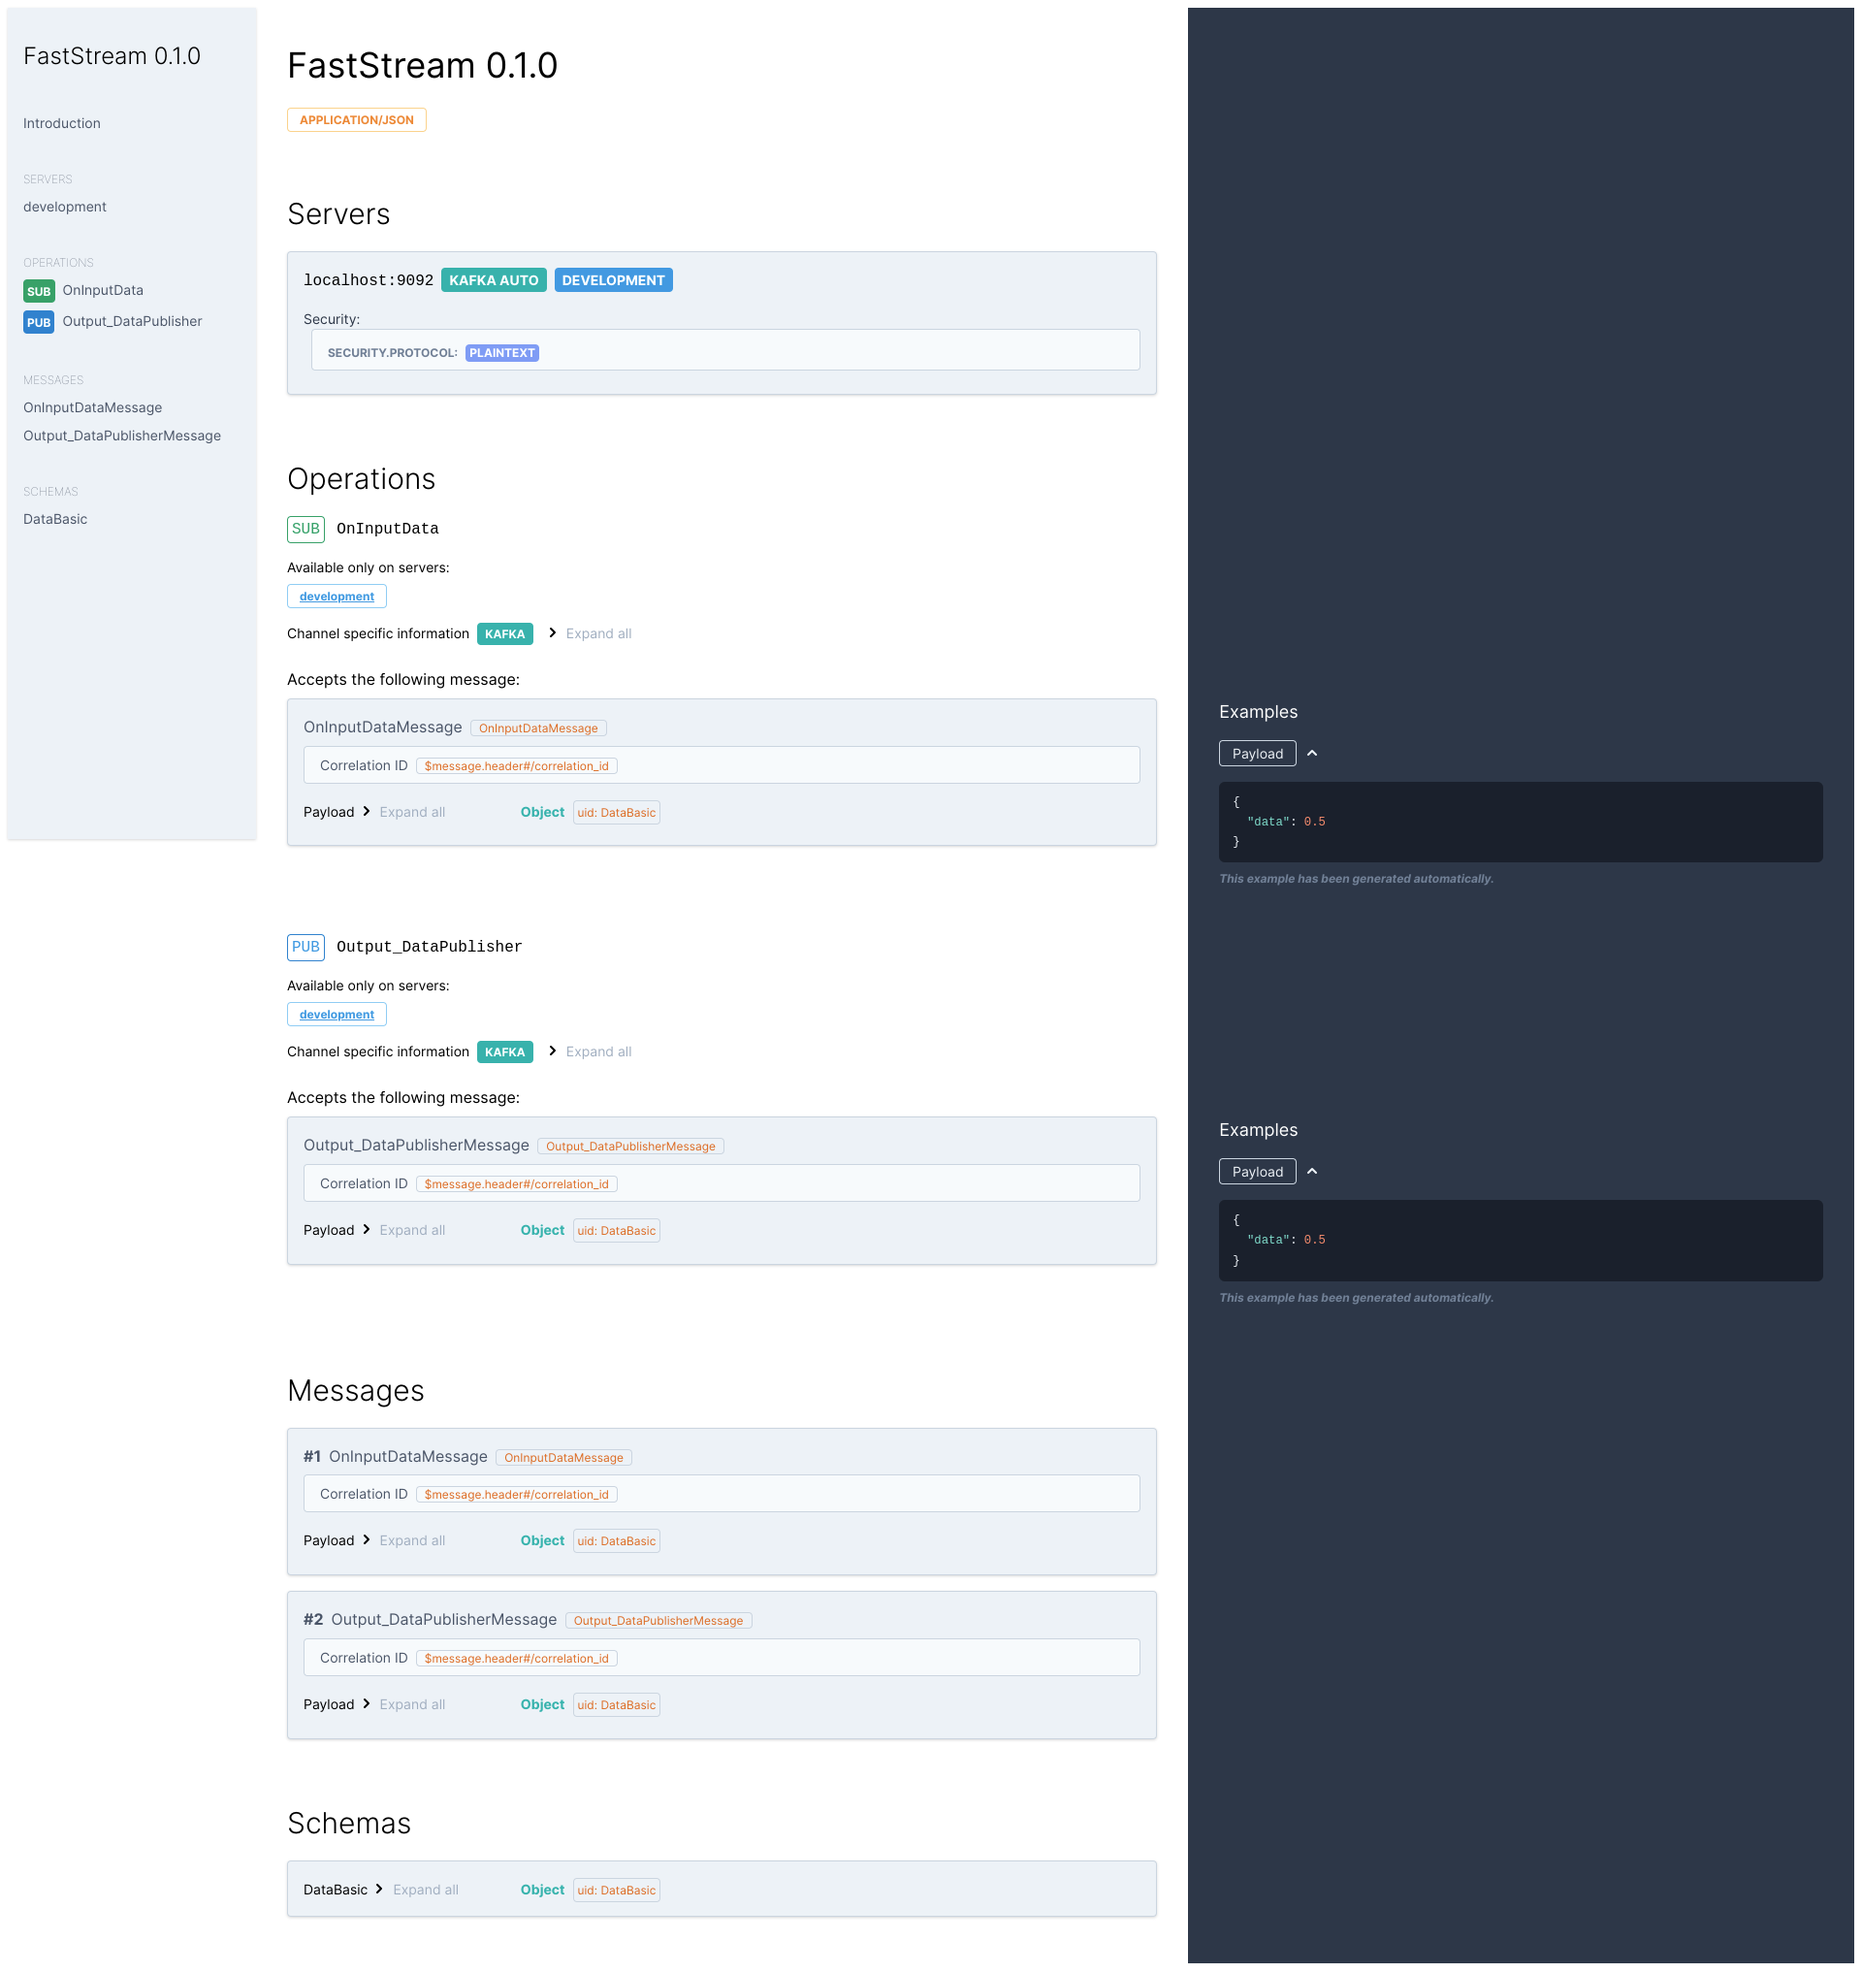
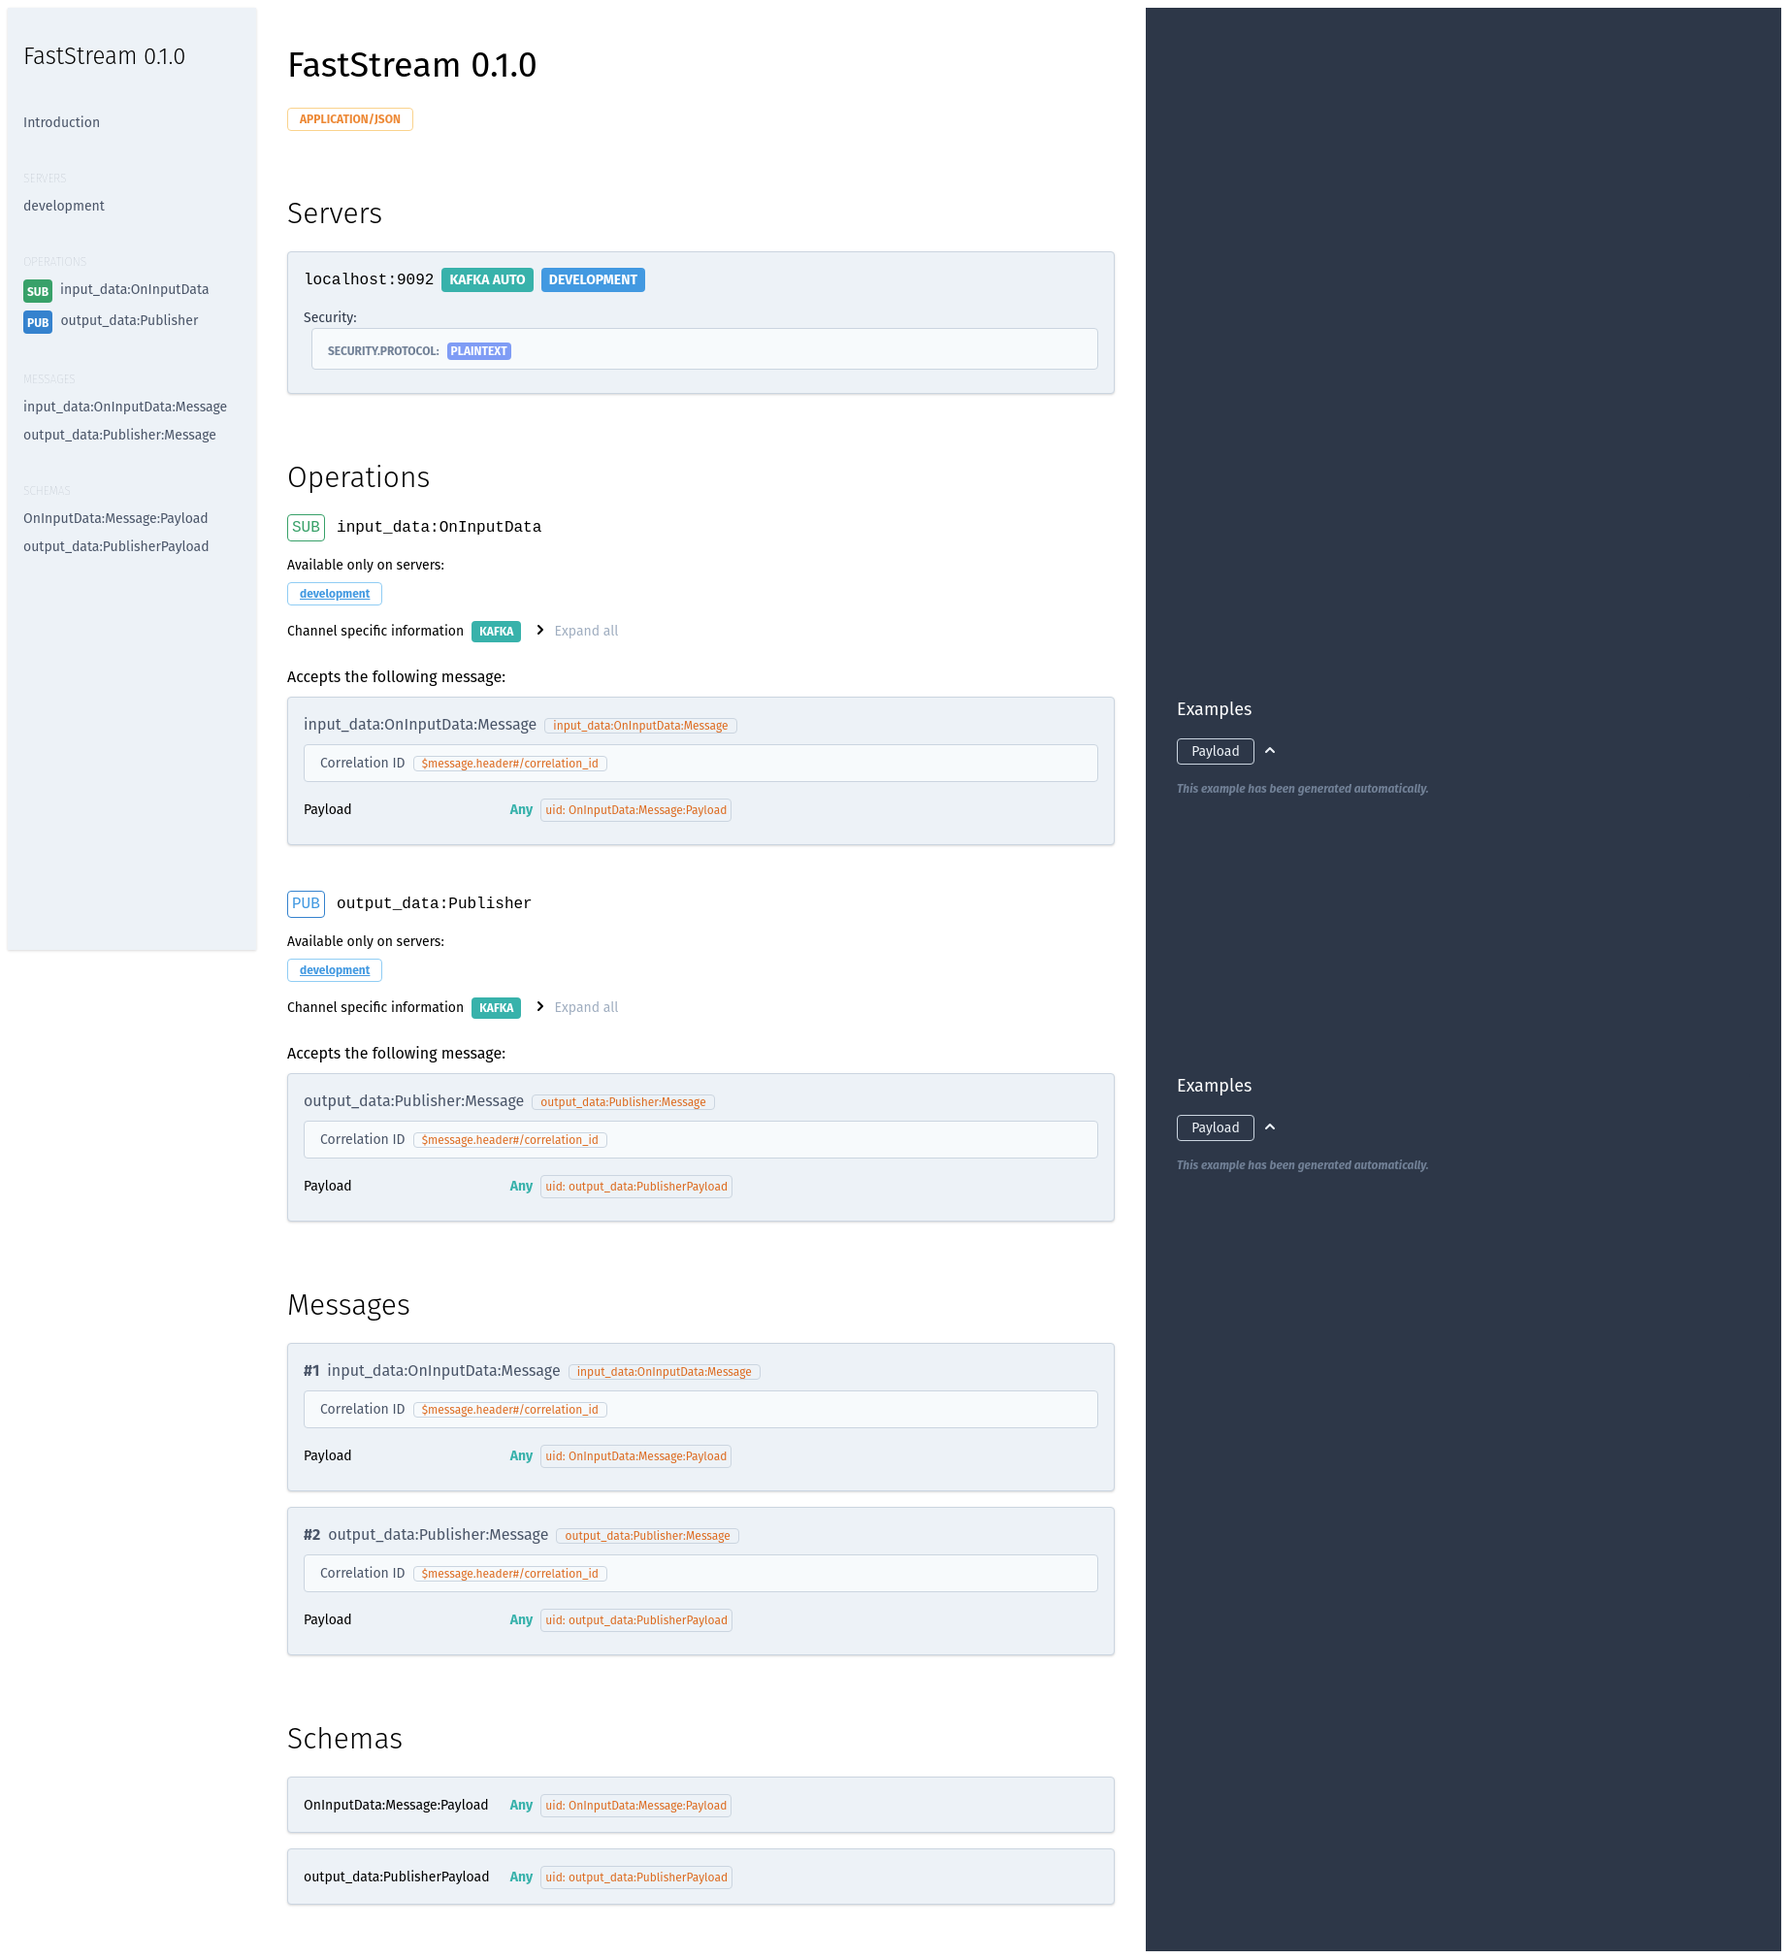
Update docs to add  how to customize asyncapi docs (#999)
* WIP

* Add description using Markdown text

* Add example for 'title='

* Add example for 'schema='

* Update AsynAPI customization info

* Update test cases for asyncapi customization

diff --git a/tests/docs/getting_started/asyncapi/asyncapi_customization/test_handler.py b/tests/docs/getting_started/asyncapi/asyncapi_customization/test_handler.py
@@ -8,24 +8,20 @@ def test_handler_customization():
     schema = get_app_schema(app).to_jsonable()
 
     assert schema["channels"] == {
-        "input_data:OnInputData": {
-            "bindings": {"kafka": {"bindingVersion": "0.4.0", "topic": "input_data"}},
-            "description": "My subscriber " "description",
+        "input_data:Consume": {
+            "description": "Consumer function\n\n    Args:\n        msg: input msg\n    ",
             "servers": ["development"],
+            "bindings": {"kafka": {"topic": "input_data", "bindingVersion": "0.4.0"}},
             "subscribe": {
-                "message": {
-                    "$ref": "#/components/messages/input_data:OnInputData:Message"
-                }
+                "message": {"$ref": "#/components/messages/input_data:Consume:Message"}
             },
         },
-        "output_data:Publisher": {
-            "bindings": {"kafka": {"bindingVersion": "0.4.0", "topic": "output_data"}},
-            "description": "My publisher " "description",
-            "publish": {
-                "message": {
-                    "$ref": "#/components/messages/output_data:Publisher:Message"
-                }
-            },
+        "output_data:Produce": {
+            "description": "My publisher description",
             "servers": ["development"],
+            "bindings": {"kafka": {"topic": "output_data", "bindingVersion": "0.4.0"}},
+            "publish": {
+                "message": {"$ref": "#/components/messages/output_data:Produce:Message"}
+            },
         },
     }

diff --git a/docs/docs_src/getting_started/asyncapi/asyncapi_customization/custom_handler.py b/docs/docs_src/getting_started/asyncapi/asyncapi_customization/custom_handler.py
@@ -1,11 +1,33 @@
+from pydantic import BaseModel, Field, NonNegativeFloat
+
 from faststream import FastStream
 from faststream.kafka import KafkaBroker, KafkaMessage
+
+
+class DataBasic(BaseModel):
+    data: NonNegativeFloat = Field(
+        ..., examples=[0.5], description="Float data example"
+    )
+
 
 broker = KafkaBroker("localhost:9092")
 app = FastStream(broker)
 
-@broker.publisher("output_data", description="My publisher description")
-@broker.subscriber("input_data", description="My subscriber description")
+
+@broker.publisher(
+    "output_data",
+    description="My publisher description",
+    title="output_data:Produce",
+    schema=DataBasic,
+)
+@broker.subscriber(
+    "input_data", title="input_data:Consume"
+)
 async def on_input_data(msg):
+    """Consumer function
+
+    Args:
+        msg: input msg
+    """
     # your processing logic
     pass

diff --git a/docs/docs_src/getting_started/asyncapi/asyncapi_customization/custom_info.py b/docs/docs_src/getting_started/asyncapi/asyncapi_customization/custom_info.py
@@ -3,10 +3,12 @@ from faststream.kafka import KafkaBroker, KafkaMessage
 from faststream.asyncapi.schema import Contact, ExternalDocs, License, Tag
 
 broker = KafkaBroker("localhost:9092")
+description="""# Title of the description
+This description supports **Markdown** syntax"""
 app = FastStream(broker,
             title="My App",
             version="1.0.0",
-            description="Test description",
+            description=description,
             license=License(name="MIT", url="https://opensource.org/license/mit/"),
             terms_of_service="https://my-terms.com/",
             contact=Contact(name="support", url="https://help.com/"),

diff --git a/tests/docs/getting_started/asyncapi/asyncapi_customization/test_info.py b/tests/docs/getting_started/asyncapi/asyncapi_customization/test_info.py
@@ -10,7 +10,7 @@ def test_info_customization():
     assert schema["info"] == {
         "title": "My App",
         "version": "1.0.0",
-        "description": "Test description",
+        "description": "# Title of the description\nThis description supports **Markdown** syntax",
         "termsOfService": "https://my-terms.com/",
         "contact": {"name": "support", "url": "https://help.com/"},
         "license": {"name": "MIT", "url": "https://opensource.org/license/mit/"},

diff --git a/docs/docs_src/getting_started/asyncapi/asyncapi_customization/custom_broker.py b/docs/docs_src/getting_started/asyncapi/asyncapi_customization/custom_broker.py
@@ -2,8 +2,13 @@ from faststream import FastStream
 from faststream.kafka import KafkaBroker, KafkaMessage
 from faststream.asyncapi.schema import Tag
 
-broker = KafkaBroker("localhost:9092", description="Kafka broker running locally")
+broker = KafkaBroker(
+    "localhost:9092",
+    description="Kafka broker running locally",
+    asyncapi_url="non-sensitive-url:9092",
+)
 app = FastStream(broker)
+
 
 @broker.publisher("output_data")
 @broker.subscriber("input_data")

diff --git a/tests/docs/getting_started/asyncapi/asyncapi_customization/test_broker.py b/tests/docs/getting_started/asyncapi/asyncapi_customization/test_broker.py
@@ -9,7 +9,7 @@ def test_broker_customization():
 
     assert schema["servers"] == {
         "development": {
-            "url": "localhost:9092",
+            "url": "non-sensitive-url:9092",
             "protocol": "kafka",
             "description": "Kafka broker running locally",
             "protocolVersion": "auto",

diff --git a/docs/docs/en/getting-started/asyncapi/custom.md b/docs/docs/en/getting-started/asyncapi/custom.md
@@ -27,7 +27,7 @@ Let's start by customizing the app information that appears in your AsyncAPI doc
 
 Copy the following code in your basic.py file, we have highligted the additional info passed to FastStream app:
 
-```python linenums="1" hl_lines="7-12"
+```python linenums="1" hl_lines="6-15"
     {!> docs_src/getting_started/asyncapi/asyncapi_customization/custom_info.py !}
 ```
 
@@ -37,18 +37,22 @@ Now, when you run ```{!> docs_src/getting_started/asyncapi/serve.py [ln:17] !}``
 
 Now, your documentation reflects your application's identity and purpose.
 
+!!! note
+    The ```description``` field in the above example supports ```Markdown``` text.
+
 ## Setup Custom Broker Information
 
 The next step is to customize broker information. This helps users understand the messaging system your application uses. Follow these steps:
 
 1. Locate the broker configuration in your FastStream application.
 1. Update the `description` field.
+1. Update the `asyncapi_url` field with a non-sensitive URL if you want to conceal your broker's actual bootstrap server URL.
 1. Save the changes.
 1. Serve your FastStream app.
 
 Copy the following code in your basic.py file, we have highligted the additional info passed to the FastStream app broker:
 
-```python linenums="1" hl_lines="5"
+```python linenums="1" hl_lines="5-9"
     {!> docs_src/getting_started/asyncapi/asyncapi_customization/custom_broker.py !}
 ```
 
@@ -64,12 +68,15 @@ Customizing handler information helps users comprehend the purpose and behavior 
 
 1. Navigate to your handler definitions in your FastStream application.
 1. Add descriptions to each handler using `description` field.
+1. For subscriber, consumer function's docstring can be used as `description`.
+1. Add titles to each handler using `title` field adhering to [URI format](https://datatracker.ietf.org/doc/html/rfc3986).
+1. Add publishing schema to publisher handler using `schema` field.
 1. Save the changes.
 1. Serve your FastStream app.
 
 Copy the following code in your basic.py file, we have highligted the additional info passed to the FastStream app handlers:
 
-```python linenums="1" hl_lines="7-8"
+```python linenums="1" hl_lines="17-25 27-31"
     {!> docs_src/getting_started/asyncapi/asyncapi_customization/custom_handler.py !}
 ```
 
@@ -91,7 +98,7 @@ To describe your message payload effectively, you can use Pydantic models. Here'
 
 Copy the following code in your basic.py file, we have highligted the creation of payload info and you can see it being passed to the return type and the `msg` argument type in the `on_input_data` function:
 
-```python linenums="1" hl_lines="5"
+```python linenums="1" hl_lines="7-10 19"
     {!> docs_src/getting_started/asyncapi/asyncapi_customization/payload_info.py !}
 ```
 

diff --git a/docs/docs/en/getting-started/asyncapi/hosting.md b/docs/docs/en/getting-started/asyncapi/hosting.md
@@ -41,3 +41,24 @@ And you should be able to see the following page in your browser:
 
 !!! tip
     The command also offers options to serve the documentation on a different host and port.
+
+## Customizing AsyncAPI Documentation
+
+FastStream also provides query parameters to show and hide specific sections of AsyncAPI documentation.
+
+You can use the following parameters control the visibility of relevant sections:
+
+1. `sidebar`: Whether to include the sidebar. Default is true.
+1. `info`: Whether to include the info section. Default is true.
+1. `servers`: Whether to include the servers section. Default is true.
+1. `operations`: Whether to include the operations section. Default is true.
+1. `messages`: Whether to include the messages section. Default is true.
+1. `schemas`: Whether to include the schemas section. Default is true.
+1. `errors`: Whether to include the errors section. Default is true.
+1. `expandMessageExamples`: Whether to expand message examples. Default is true.
+
+For example, to hide the entire `Servers` section of the documentation, simply add `servers=false` as a query parameter, i.e., <http://localhost:8000?servers=false>. The resulting page would look like the image below:
+
+![HTML-page](../../../assets/img/AsyncAPI-hidden-servers.png){ loading=lazy }
+
+Please use the above-listed query parameters to show and hide sections of the AsyncAPI documentation.
